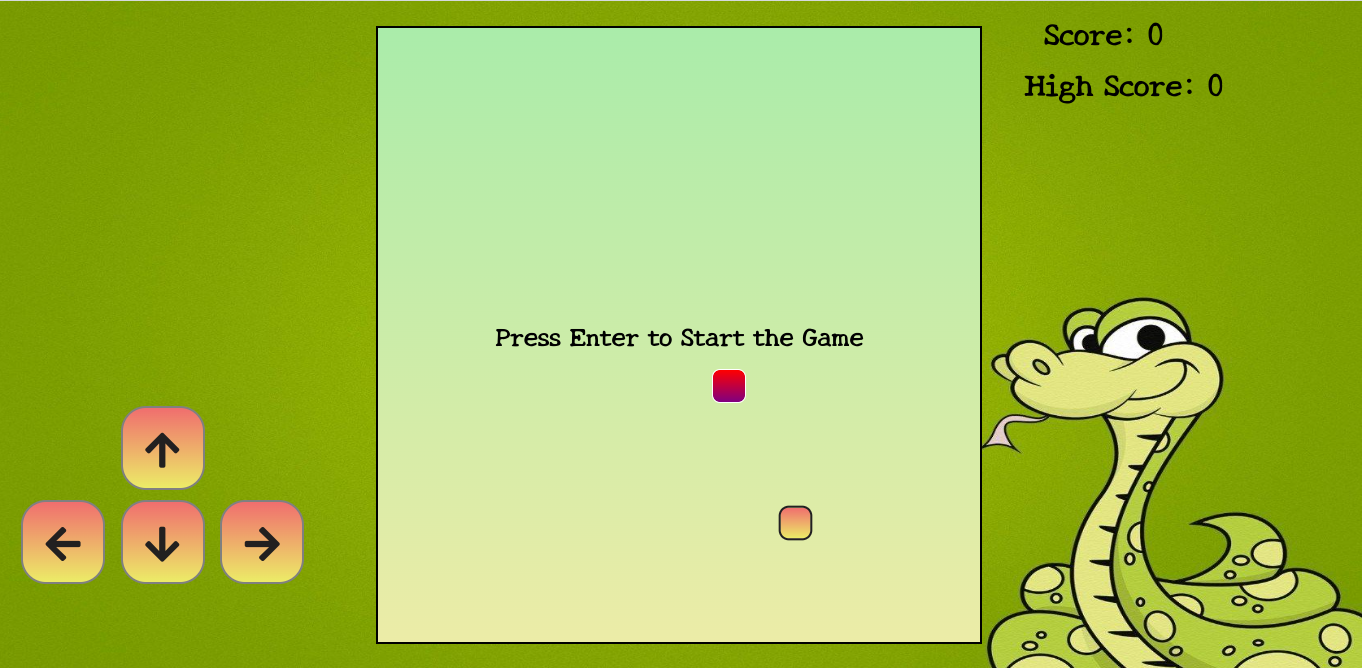
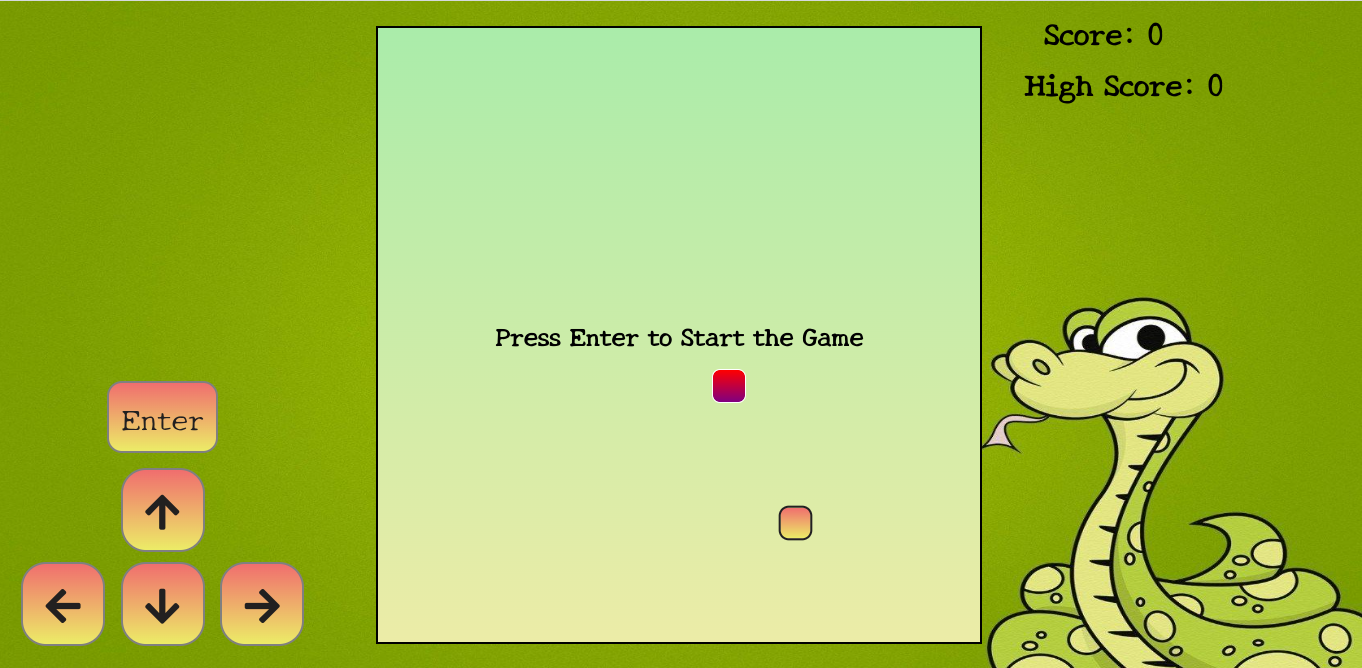
changes in arrow keys

Changed region(s): [[0.0, 0.5689, 0.2467, 0.988]]

diff --git a/js/index.js b/js/index.js
@@ -167,9 +167,6 @@ window.addEventListener('keydown', e => {
             console.log(newDir.x , -inputDir.x);
             inputDir = newDir;
         }
-        else{
-            console.log("hello");
-        }
 
     } else {
         if (e.key === "Enter") {
@@ -210,6 +207,13 @@ function handleButtonClick(direction) {
             inputDir = newDir;
         }
     }
+    else {
+        if (direction === "enter") {
+            startGame();
+            text.innerHTML = "";
+            window.requestAnimationFrame(main);
+        }
+    }
 }
 
 
@@ -223,5 +227,6 @@ btnUp.addEventListener('click', () => handleButtonClick("up"));
 btnDown.addEventListener('click', () => handleButtonClick("down"));
 btnLeft.addEventListener('click', () => handleButtonClick("left"));
 btnRight.addEventListener('click', () => handleButtonClick("right"));
+enter.addEventListener('click', () => handleButtonClick("enter"));
 
 

diff --git a/css/style.css b/css/style.css
@@ -9,7 +9,6 @@
     background: url('../img/bg.jpg');
     min-height: 100vh;
     background-size: 100vw 100vh;
-    background-repeat: no-repeat;
     display: flex;
     justify-content: center;
     align-items: center;
@@ -64,7 +63,7 @@
 
 .keys {
     position: absolute;
-    top: 400px;
+    top: 380px;
     left: 20px;
     text-align: center;
     font-family: 'New Tegomin', serif;
@@ -84,6 +83,18 @@
     border-radius: 25px;
     display: inline-block;
     margin: 5px;
+}
+
+#enter {
+    cursor: pointer;
+    background: linear-gradient(rgb(240, 110, 110), rgb(236, 236, 103));
+    color: rgb(34, 32, 32);
+    font-size: 30px;
+    border: 2px solid grey;
+    border-radius: 15px;
+    display: inline-block;
+    padding: 12px;
+    margin-bottom: 10px;
 }
 
 #text {

diff --git a/index.html b/index.html
@@ -19,10 +19,12 @@
         <div id="highScoreBox">High Score: 0</div>
         <div class="board"></div>
         <div class="keys">
+            <div class="button" id="enter">Enter</div>
+            <br/>
             <div class="arrow" id="btn-up"><i class="fa fa-arrow-up"></i></div>
             <br />
-            <div class="arrow" id="btn-down"><i class="fa fa-arrow-left"></i></div>
-            <div class="arrow" id="btn-left"><i class="fa fa-arrow-down"></i></div>
+            <div class="arrow" id="btn-left"><i class="fa fa-arrow-left"></i></div>
+            <div class="arrow" id="btn-down"><i class="fa fa-arrow-down"></i></div>
             <div class="arrow" id="btn-right"><i class="fa fa-arrow-right"></i></div>
         </div>
     </div>

diff --git a/README.md b/README.md
@@ -4,26 +4,29 @@ Snake Game 🐍
 ![SnakeGame](sample.png)
 
 Overview:
-Welcome to the classic Snake Game! This repository contains a simple and addictive implementation of the classic Snake Game using vanilla JavaScript, HTML, and CSS. The game provides a nostalgic experience for players of all ages, where they control the snake to eat food and grow longer while avoiding collisions with the walls or its own tail.
+Welcome to the classic Snake Game! This repository contains a simple and addictive implementation of the classic Snake Game using vanilla JavaScript, HTML, and CSS. 
+
+The game provides a nostalgic experience for players of all ages, where they control the snake to eat food and grow longer while avoiding collisions with the walls or its own tail.
 
 Features:
-Smooth Controls: The game offers smooth and responsive controls that allow players to maneuver the snake in all directions.
-Score Tracking: Keep track of your score as you consume more food and grow longer. Challenge yourself to beat your highest score!
-Game Over: The game ends when the snake collides with the boundaries or its own tail. You can restart the game with a single click and try to beat your previous performance.
-Speed Levels: As the game progresses, the snake's speed increases, making the gameplay more challenging and exciting.
+1. Smooth Controls: The game offers smooth and responsive controls that allow players to maneuver the snake in all directions.
+2. Score Tracking: Keep track of your score as you consume more food and grow longer. Challenge yourself to beat your highest score!
+3. Game Over: The game ends when the snake collides with the boundaries or its own tail. You can restart the game with a single click and try to beat your previous performance.
+4. Speed Levels: As the game progresses, the snake's speed increases, making the gameplay more challenging and exciting.
+
 How to Play:
-Use the arrow keys (Up, Down, Left, Right) to control the direction of the snake.
+1. Use the arrow keys (Up, Down, Left, Right) to control the direction of the snake.
 The snake will automatically move in the direction you choose.
-Your goal is to guide the snake to eat the food (represented by a red dot) to grow longer.
+Your goal is to guide the snake to eat the food to grow longer.
 The game ends if the snake collides with the boundaries of the playing area or its own tail.
-Click the "Restart" button to start a new game after the game over.
-Demo:
-Check out the live demo of the Snake Game here.
+Click the "Enter" button to start a new game after the game over.
+
 
 Installation:
-Clone the repository: git clone https://github.com/your-username/snake-game.git
-Open index.html in your preferred web browser.
-Start playing the Snake Game!
+1. Clone the repository: git clone https://github.com/your-username/snake-game.git
+2. Open index.html in your preferred web browser.
+3. Start playing the Snake Game!
+
 Contributions:
 Contributions are welcome! If you find any bugs or have ideas to improve the game, feel free to open an issue or submit a pull request.
 
